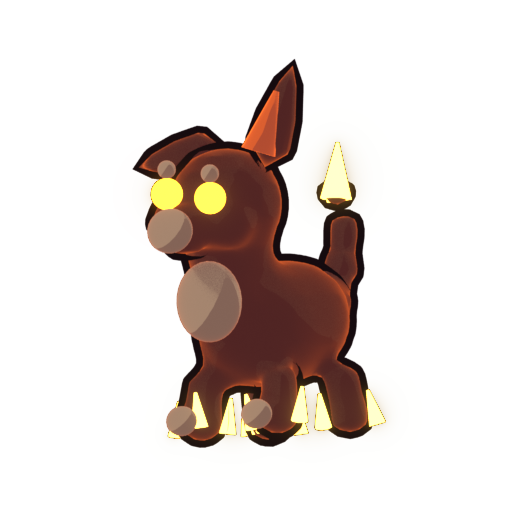
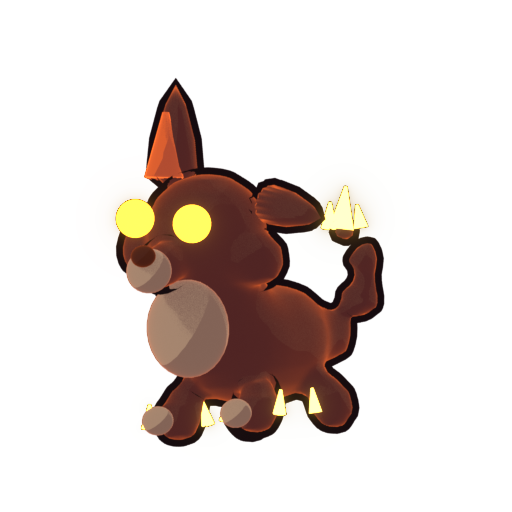
Refine Kindlpup proportions toward art-direction reference
Bigger head (~50% of height) with wide cheek ruff, short low muzzle with
dark nose, level wide-set eyes, chunky low-slung body, stubby legs,
side-curled bushy tail with flames hugging the tip, floppy ear moved to
the camera side, brow-dot markings removed (read as noise)

Claude-Session: https://claude.ai/code/session_01GDLTxrGMStWcAPEBnWGpxw

Changed region(s): [[0.2188, 0.0938, 0.75, 0.875]]

diff --git a/pipeline/kindlpup.py b/pipeline/kindlpup.py
@@ -41,7 +41,7 @@ FLAME_STRENGTH = 8.0
 
 # ── Construction helpers ─────────────────────────────────────────────────────
 
-HEAD_CENTER = Vector((0.0, -0.16, 0.66))
+HEAD_CENTER = Vector((0.0, -0.14, 0.62))
 
 def _head_tilted(p: Vector, tilt: float) -> Vector:
     """Rotate a point around the head center about the Y (front) axis —
@@ -100,29 +100,29 @@ def build_kindlpup(seed: int = 7) -> dict:
         el.co = _head_tilted(co, head_tilt) if tilt_head else Vector(co)
         el.radius = r
 
-    # Round body, big head (~40% of mass), short muzzle, chest fluff mass.
+    # Reference proportions: low-slung chunky body, huge head (~50% of the
+    # standing height incl. cheek ruff), short low muzzle, stubby legs.
     # Metaball iso-surfaces sit at ~75% of element radius, so neighbouring
     # elements overlap generously to blend into one connected mass.
-    ball((0.00,  0.05, 0.36), 0.30)            # body core
-    ball((0.00,  0.18, 0.38), 0.24)            # rump
-    ball((0.00, -0.08, 0.34), 0.24)            # chest
-    ball((0.00, -0.20, 0.44), 0.14)            # chest fluff mass
-    ball((0.00, -0.12, 0.52), 0.18, True)      # neck (bridges body -> head)
-    ball((0.00, -0.16, 0.70), 0.28, True)      # head (big!)
-    ball((0.00, -0.36, 0.62), 0.12, True)      # short muzzle
-    ball((0.10, -0.28, 0.64), 0.10, True)      # cheek R
-    ball((-0.10, -0.28, 0.64), 0.10, True)     # cheek L
+    ball((0.00,  0.08, 0.28), 0.30)            # body core (low)
+    ball((0.00,  0.22, 0.30), 0.25)            # rump
+    ball((0.00, -0.08, 0.28), 0.26)            # chest
+    ball((0.00, -0.10, 0.44), 0.22, True)      # short neck (head sits ON body)
+    ball((0.00, -0.14, 0.62), 0.33, True)      # head (huge)
+    ball((0.21, -0.16, 0.56), 0.13, True)      # cheek ruff R (widens the face)
+    ball((-0.21, -0.16, 0.56), 0.13, True)     # cheek ruff L
+    ball((0.00, -0.38, 0.53), 0.115, True)     # short muzzle, low on the face
     # Stubby legs + oversized paws (cute-factor anchor)
     for sx in (1, -1):
-        ball((sx * 0.13, -0.12, 0.18), 0.095)  # front leg
-        ball((sx * 0.13, -0.15, 0.09), 0.115)  # front paw (oversized)
-        ball((sx * 0.14,  0.18, 0.18), 0.095)  # hind leg
-        ball((sx * 0.14,  0.20, 0.09), 0.105)  # hind paw
-    # Bushy tail curling upward (chained overlap so it reads as one curl)
-    ball((0.00, 0.33, 0.42), 0.115)
-    ball((0.00, 0.40, 0.52), 0.100)
-    ball((0.00, 0.43, 0.63), 0.090)
-    ball((0.00, 0.40, 0.73), 0.075)
+        ball((sx * 0.14, -0.12, 0.12), 0.090)  # front leg
+        ball((sx * 0.145, -0.16, 0.07), 0.120) # front paw (oversized)
+        ball((sx * 0.15,  0.22, 0.12), 0.090)  # hind leg
+        ball((sx * 0.155,  0.24, 0.07), 0.110) # hind paw
+    # Bushy tail curling up at the side (visible from the hero 3/4 angle)
+    ball((0.08, 0.36, 0.30), 0.120)
+    ball((0.16, 0.42, 0.40), 0.105)
+    ball((0.19, 0.42, 0.52), 0.090)
+    ball((0.16, 0.37, 0.61), 0.075)
 
     # Convert metaballs -> mesh
     bpy.ops.object.select_all(action="DESELECT")
@@ -136,23 +136,25 @@ def build_kindlpup(seed: int = 7) -> dict:
     # Asymmetric ears (reference: one upright pointed ear, one floppy)
     ear_objs = []
 
-    up_loc = _head_tilted((0.14, -0.13, 0.96), head_tilt)
+    # Upright ear on the far side, floppy ear toward the hero camera (+X),
+    # matching the reference composition
+    up_loc = _head_tilted((-0.16, -0.10, 0.90), head_tilt)
     bpy.ops.mesh.primitive_cone_add(
-        vertices=16, radius1=0.095, radius2=0.012, depth=0.32, location=up_loc)
+        vertices=16, radius1=0.115, radius2=0.014, depth=0.36, location=up_loc)
     ear_up = bpy.context.active_object
     ear_up.name = "KindlpupEarUp"
     ear_up.rotation_euler = Euler(
-        (math.radians(-8), math.radians(12) + ear_jitter + head_tilt, 0.0))
+        (math.radians(-8), math.radians(-12) - ear_jitter + head_tilt, 0.0))
     bpy.ops.object.shade_smooth()
     ear_objs.append(ear_up)
 
-    flop_loc = _head_tilted((-0.20, -0.12, 0.82), head_tilt)
+    flop_loc = _head_tilted((0.27, -0.10, 0.72), head_tilt)
     bpy.ops.mesh.primitive_cone_add(
-        vertices=16, radius1=0.085, radius2=0.015, depth=0.28, location=flop_loc)
+        vertices=16, radius1=0.100, radius2=0.018, depth=0.30, location=flop_loc)
     ear_flop = bpy.context.active_object
     ear_flop.name = "KindlpupEarFlop"
     ear_flop.rotation_euler = Euler(
-        (math.radians(10), math.radians(-105) + ear_jitter + head_tilt, 0.0))
+        (math.radians(10), math.radians(100) + ear_jitter + head_tilt, 0.0))
     bpy.ops.object.shade_smooth()
     ear_objs.append(ear_flop)
 
@@ -180,13 +182,13 @@ def build_kindlpup(seed: int = 7) -> dict:
     accent_objs = []
 
     # Inner ear on the upright ear only
-    loc = _head_tilted((0.14, -0.185, 0.945), head_tilt)
+    loc = _head_tilted((-0.16, -0.155, 0.885), head_tilt)
     bpy.ops.mesh.primitive_cone_add(
-        vertices=12, radius1=0.050, radius2=0.008, depth=0.18, location=loc)
+        vertices=12, radius1=0.060, radius2=0.010, depth=0.20, location=loc)
     inner = bpy.context.active_object
     inner.name = "KindlpupInnerEar"
     inner.rotation_euler = Euler(
-        (math.radians(-10), math.radians(12) + ear_jitter + head_tilt, 0.0))
+        (math.radians(-10), math.radians(-12) - ear_jitter + head_tilt, 0.0))
     bpy.ops.object.shade_smooth()
     inner.data.materials.append(inner_mat)
     accent_objs.append(inner)
@@ -194,26 +196,32 @@ def build_kindlpup(seed: int = 7) -> dict:
     # Grey-tan markings: chest, muzzle patch, brow dots, toe caps
     marking_objs = []
     marking_objs.append(_sphere(
-        "KindlpupChestFluff", (0.0, -0.265, 0.42), 0.105, (1.0, 0.6, 1.1)))
+        "KindlpupChestFluff", (0.0, -0.28, 0.34), 0.13, (1.1, 0.6, 1.15)))
     marking_objs.append(_sphere(
         "KindlpupMuzzlePatch",
-        _head_tilted((0.0, -0.43, 0.62), head_tilt), 0.075, (1.0, 0.45, 0.85)))
+        _head_tilted((0.0, -0.44, 0.52), head_tilt), 0.08, (1.0, 0.45, 0.85)))
     for sx in (1, -1):
         marking_objs.append(_sphere(
-            f"KindlpupBrow{'R' if sx > 0 else 'L'}",
-            _head_tilted((sx * 0.075, -0.36, 0.79), head_tilt), 0.026))
-        marking_objs.append(_sphere(
             f"KindlpupToes{'R' if sx > 0 else 'L'}",
-            (sx * 0.13, -0.25, 0.09), 0.05, (1.0, 0.55, 0.85)))
+            (sx * 0.145, -0.27, 0.07), 0.055, (1.0, 0.5, 0.8)))
     for obj in marking_objs:
         obj.data.materials.append(marking_mat)
     accent_objs.extend(marking_objs)
+
+    # Dark nose on the muzzle tip
+    nose_mat = sc.make_toon_material("KindlpupNose", "#1E1418", "#120C12",
+                                     OUTLINE, GLOW, rim_strength=0.6)
+    nose = _sphere("KindlpupNose",
+                   _head_tilted((0.0, -0.475, 0.565), head_tilt), 0.042,
+                   (1.0, 0.7, 0.8))
+    nose.data.materials.append(nose_mat)
+    accent_objs.append(nose)
 
     # ── Glow parts: big round eyes, ear embers, tail-tip ember ───────────────
     glow_objs = []
     for sx in (1, -1):
         eye = _sphere(f"KindlpupEye{'R' if sx > 0 else 'L'}",
-                      _head_tilted((sx * 0.075, -0.35, 0.72), head_tilt), 0.045)
+                      _head_tilted((sx * 0.105, -0.375, 0.67), head_tilt), 0.058)
         eye.data.materials.append(eye_mat)
         glow_objs.append(eye)
 
@@ -229,25 +237,25 @@ def build_kindlpup(seed: int = 7) -> dict:
         glow_objs.append(fl)
 
     # Flame wreaths around each paw (reference: paws alight)
-    paw_spots = [(0.13, -0.15), (-0.13, -0.15), (0.14, 0.20), (-0.14, 0.20)]
+    paw_spots = [(0.145, -0.16), (-0.145, -0.16), (0.155, 0.24), (-0.155, 0.24)]
     for i, (px, py) in enumerate(paw_spots):
-        for j in range(3):
-            ang = j * 2.1 + i
-            fx = px + 0.085 * math.cos(ang)
-            fy = py + 0.085 * math.sin(ang)
+        for j in range(2):
+            ang = j * 2.6 + i
+            fx = px + 0.09 * math.cos(ang)
+            fy = py + 0.09 * math.sin(ang)
             flame(f"KindlpupPawFlame{i}{j}", fx, fy,
-                  0.10 + rng.uniform(0.0, 0.02), 0.024, 0.10)
+                  0.085 + rng.uniform(0.0, 0.015), 0.020, 0.075)
 
-    # Tail tip burning
-    flame("KindlpupTailFlameA", 0.00, 0.41, 0.80, 0.045, 0.16)
-    flame("KindlpupTailFlameB", 0.03, 0.37, 0.78, 0.028, 0.10)
-    flame("KindlpupTailFlameC", -0.03, 0.43, 0.76, 0.025, 0.09)
+    # Tail tip burning (hugging the tip of the side-curled tail)
+    flame("KindlpupTailFlameA", 0.16, 0.37, 0.68, 0.038, 0.13)
+    flame("KindlpupTailFlameB", 0.12, 0.35, 0.66, 0.024, 0.08)
+    flame("KindlpupTailFlameC", 0.20, 0.39, 0.65, 0.022, 0.07)
 
     # ── Root: parent everything; lean forward onto the front paws ────────────
     root = _link(bpy.data.objects.new("KindlpupRoot", None))
     for obj in [body] + accent_objs + glow_objs:
         obj.parent = root
-    root.rotation_euler = Euler((math.radians(6), 0.0, 0.0))  # about to pounce
+    root.rotation_euler = Euler((math.radians(8), 0.0, 0.0))  # about to pounce
     bpy.context.view_layer.update()
 
     print("[kindlpup] build complete")
